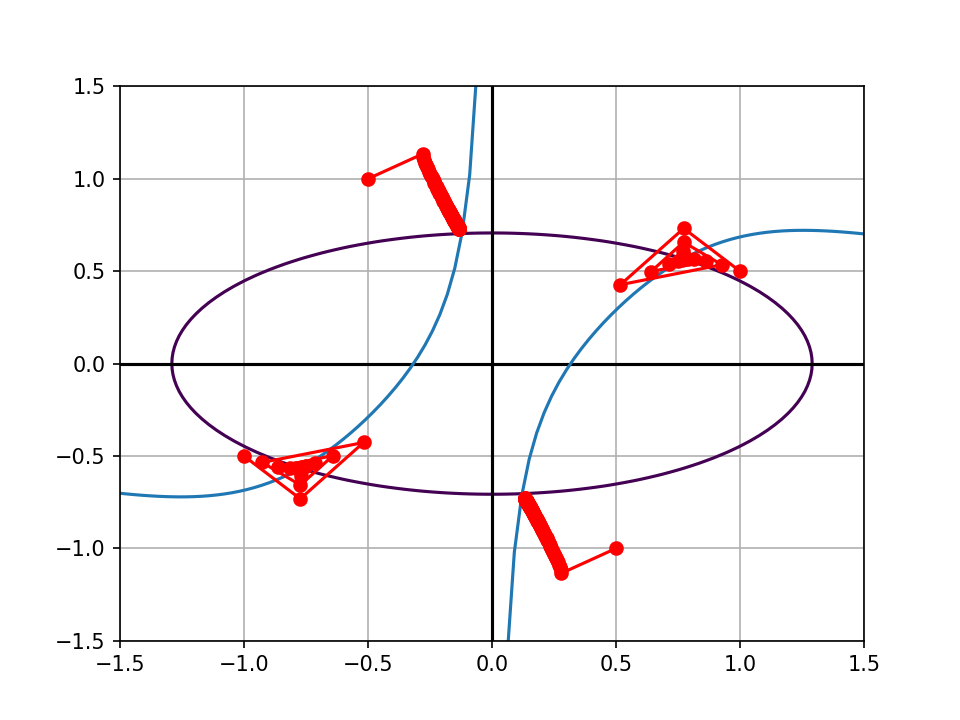
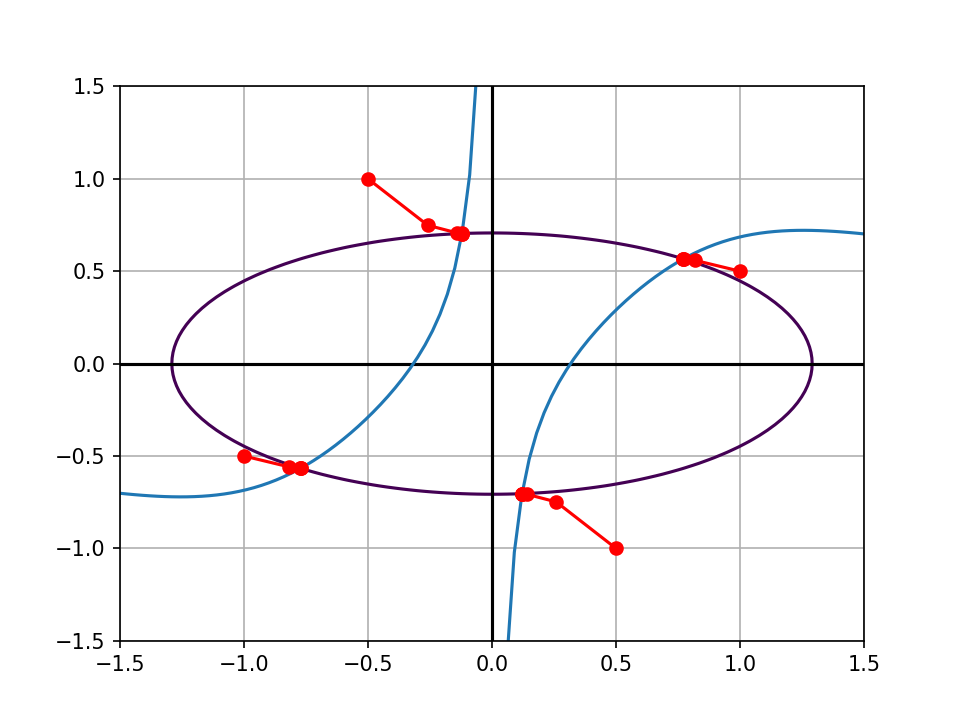
Done all stuff.

diff --git a/fourth/run.py b/fourth/run.py
@@ -12,7 +12,7 @@ plt.ylim(-1.5, 1.5)
 plt.xlim(-1.5, 1.5)
 
 _f1 = lambda x, y: tan(x * y + 0.1) - x ** 2
-f1 = lambda x: (arctan(x**2) - 0.1) / x
+f1 = lambda x: (arctan(x ** 2) - 0.1) / x
 _f2 = lambda x, y: 0.6 * x ** 2 + 2 * y ** 2 - 1
 f2 = lambda y: np.sqrt(5 / 3 - 10 / 3 * y ** 2)
 
@@ -22,6 +22,7 @@ X, Y = np.meshgrid(x, y)
 F = _f2(X, Y)
 plt.contour(X, Y, F, [0])
 plt.plot(x, f1(x))
+plt.savefig('fig1.png', dpi=150)
 
 x_s, y_s = symbols('x y')
 F = Matrix([
@@ -32,9 +33,9 @@ F = Matrix([
 e = 0.0001
 starts = [
     (1.0, 0.5),
-    (0.5, -1),
-    (-1.0, -0.5),
-    (-0.5, 1),
+    # (0.5, -1),
+    # (-1.0, -0.5),
+    # (-0.5, 1),
 ]
 
 # print('Метод Ньютона:')
@@ -45,17 +46,35 @@ starts = [
 #     print(f'\t\tx = {round(x_res[-1], 4)}; y = {round(y_res[-1], 4)}')
 #
 #     plt.plot(x_res, y_res, 'ro-', color='#ff0000')
-# plt.savefig('fig1.png', dpi=150)
+# plt.savefig('fig2.png', dpi=150)
+#
 
-print('Метод простых итераций:')
+
+def test1():
+    for start in starts:
+        x_res, y_res, count = newton_solve('x y', start, F, e)
+
+
+def test():
+    for start in starts:
+        x_res, y_res, count = iter_solve('x y', start, F, e)
+
+
 for start in starts:
     x_res, y_res, count = iter_solve('x y', start, F, e)
-    print(f'\tДля точки {start}:')
-    print(f'\tКоличество итераций: {count}')
-    print(f'\t\tx = {round(x_res[-1], 4)}; y = {round(y_res[-1], 4)}')
+    # print(f'\tДля точки {start}:')
+    # print(f'\tКоличество итераций: {count}')
+    # print(f'\t\tx = {round(x_res[-1], 4)}; y = {round(y_res[-1], 4)}')
 
-    plt.plot(x_res, y_res, 'ro-', color='#ff0000')
-
-
-plt.savefig('fig2.png', dpi=150)
+    # plt.plot(x_res, y_res, 'ro-', color='#ff0000')
+plt.savefig('fig3.png', dpi=150)
 # plt.show()
+
+if __name__ == '__main__':
+    import timeit
+    print('Метод простых итераций:')
+    res1 = timeit.timeit("test()", setup="from __main__ import test", number=1)
+    print(f'{res1} sec')
+    print('Метод Ньютона:')
+    res2 = timeit.timeit("test1()", setup="from __main__ import test1", number=1)
+    print(f'{res2} sec')

diff --git a/sixth/run.py b/sixth/run.py
@@ -30,12 +30,21 @@ x = np.arange(-2, 2, 0.001)
 plt.plot(x, F(x), c='#ff0000')
 plt.savefig('fig1.png', dpi=150.0)
 
-square_res = round(square(F, a, b, 1), zeroes)
-trap_res = trapezoidal(F, a, b, 1)
-simps_res = simpson(F, a, b)
-res = integrate(_F, a, b)
+square_res = round(square(F, a, b, e), zeroes)
+trap_res = round(trapezoidal(F, a, b, e), zeroes)
+simps_res = round(simpson(F, a, b), zeroes)
+res = round(integrate(_F, a, b), zeroes)
+delta1 = round(res - square_res, zeroes)
+delta2 = round(res - trap_res, zeroes)
+delta3 = round(res - simps_res, zeroes)
 
-print(f'Значение интеграла методом средних квадратов:\n\t{square_res}\n')
-print(f'Значение интеграла методом трапеции:\n\t{trap_res}\n')
-print(f'Значение интеграла методом Симпсона:\n\t{simps_res}\n')
+print(f'Значение интеграла методом средних квадратов:\n\t{square_res}')
+print(f'Отклонение от точного значения: {delta1}\n')
+
+print(f'Значение интеграла методом трапеции:\n\t{trap_res}')
+print(f'Отклонение от точного значения: {delta2}\n')
+
+print(f'Значение интеграла методом Симпсона:\n\t{simps_res}')
+print(f'Отклонение от точного значения: {delta3}\n')
+
 print(f'Действительное значение интеграла:\n\t{res}\n')

diff --git a/sixth/lib.py b/sixth/lib.py
@@ -1,14 +1,19 @@
-from numpy.ma import arange
+import numpy as np
+import sympy as sp
 from sympy import symbols
 
-import sympy as sp
+
+def frange(x, y, jump):
+    while x < y:
+        yield x
+        x += jump
 
 
 def square(fn, a, b, n) -> int:
     res = 0.0
-    for i in arange(a, b, n):
+    for i in frange(a, b - n, n):
         x_i = i
-        x_i2 = i + 1
+        x_i2 = i + n
 
         res += fn((x_i + x_i2) / 2) * (x_i2 - x_i)
     return res
@@ -16,11 +21,14 @@ def square(fn, a, b, n) -> int:
 
 def trapezoidal(fn, a, b, n):
     res = 0.0
-    for i in arange(a, b, n):
+    for i in frange(a, b - n, n):
         x_i = i
-        x_i2 = i + 1
+        x_i2 = i + n
 
         res += ((fn(x_i) + fn(x_i2)) / 2) * (x_i2 - x_i)
+
+    if res == np.inf:
+        res = trapezoidal(fn, a + 0.00001, b - 0.00001, n)
     return res
 
 

diff --git a/fourth/lib.py b/fourth/lib.py
@@ -1,7 +1,7 @@
 import itertools
 
 import numpy as np
-from sympy import diff, symbols, Matrix, Symbol, linsolve, Add, sqrt
+from sympy import diff, symbols, Matrix, Symbol, linsolve, Add, sqrt, pprint
 
 
 def get_yakobi(F: Matrix, _symbols: str) -> Matrix:
@@ -41,7 +41,6 @@ def easy_iter(F, x, symbol, e):
     x_s = symbols(symbol)
     primal = diff(F(x_s), x_s)
     res = primal.subs({symbol: x})
-    print(res)
     if abs(e - r * res) >= 1:
         raise Exception(f'{res} не сходится.')
     if res > 0:

diff --git a/third/run.py b/third/run.py
@@ -4,12 +4,12 @@ from third.lib import iter_solve, extract_result, seidel_solve
 
 e = 0.0001
 
-# A = np.matrix([[2, -5, -1],
-#                [-1.5, 0.1, 2],
-#                [1.25, 0.3, -0.5]])
-# B = np.matrix([[200],
-#                [600],
-#                [500]])
+A = np.matrix([[2, -5, -1],
+               [-1.5, 0.1, 2],
+               [1.25, 0.3, -0.5]])
+B = np.matrix([[1],
+               [3],
+               [1]])
 
 # A = np.matrix([[10, 2, -1],
 #                [-2, -6, -1],
